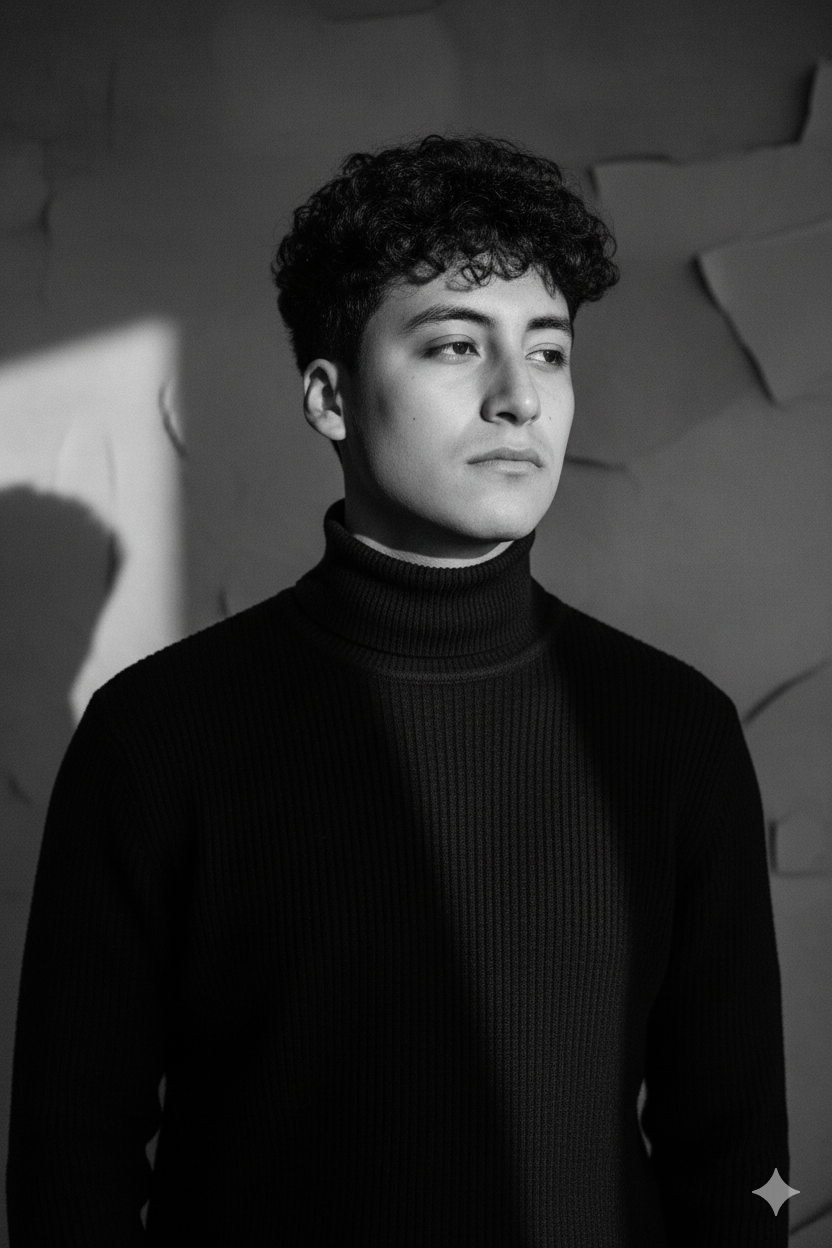
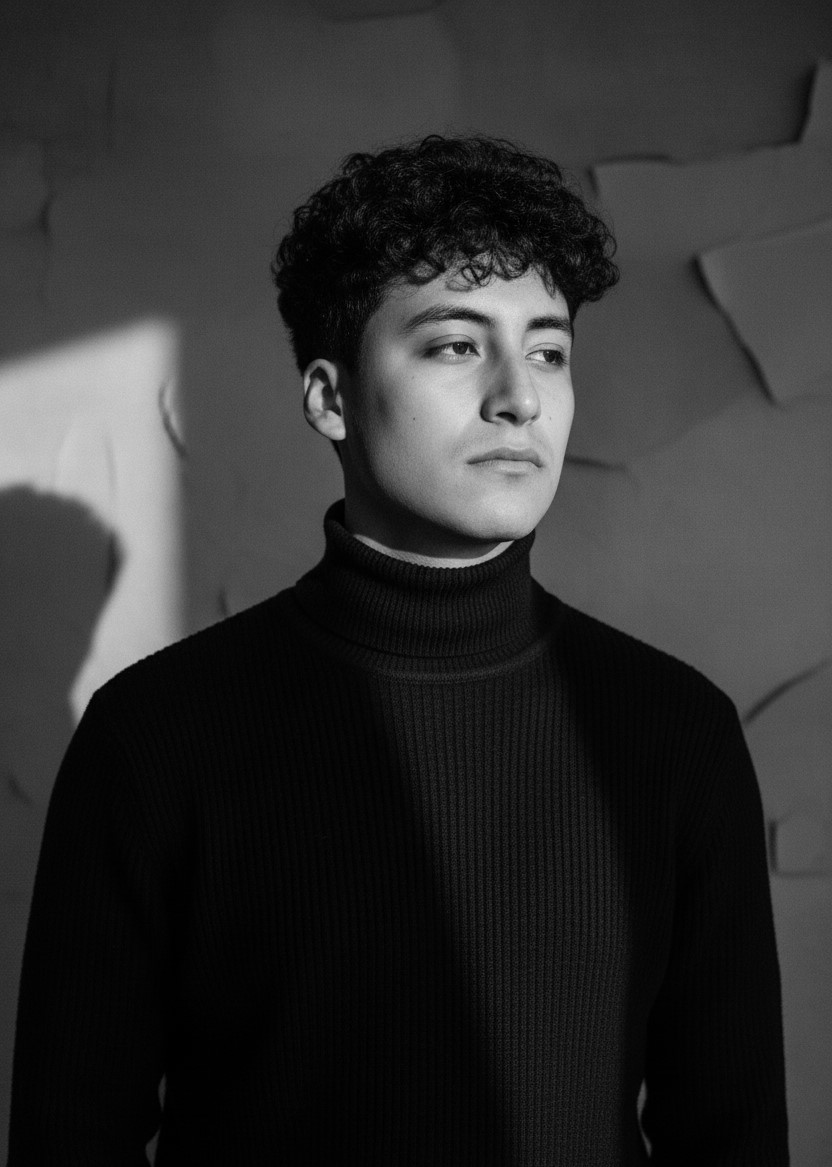
Cambios en diseño y mejoras

diff --git a/src/components/Habilities.jsx b/src/components/Habilities.jsx
@@ -1,9 +1,10 @@
 import React, { useEffect, useState } from 'react'
 import SkillCard from './SkillCard'
-import { FaReact, FaNode, FaLaravel, FaJava, FaVuejs, FaGitlab, FaBootstrap,FaMicrosoft  } from "react-icons/fa";
+import { FaReact, FaNode, FaLaravel, FaJava, FaVuejs, FaGithub,FaGitlab, FaBootstrap,FaMicrosoft,FaAws,FaFigma,  } from "react-icons/fa";
 import { RiTailwindCssFill } from "react-icons/ri";
 import { PiMicrosoftTeamsLogoBold } from "react-icons/pi";
-import { SiMysql, SiPostgresql, SiMongodb, SiJavascript, SiGit, SiHtml5, SiCss3, SiPhp, SiPostman, SiRender, SiHostinger } from "react-icons/si";
+import { SiMysql, SiPostgresql, SiMongodb,SiSpringboot,
+    SiDbeaver, SiIntellijidea,SiJavascript, SiEclipseide,SiGit, SiHtml5, SiCss3, SiPhp, SiPostman, SiRender, SiHostinger,SiJira } from "react-icons/si";
 
 const Habilities = () => {
     const [Skills, setSkills] = useState([]);
@@ -36,7 +37,15 @@ const Habilities = () => {
                     FaBootstrap: FaBootstrap,
                     RiTailwindCssFill: RiTailwindCssFill,
                     FaMicrosoft: FaMicrosoft,
-                    PiMicrosoftTeamsLogoBold: PiMicrosoftTeamsLogoBold
+                    PiMicrosoftTeamsLogoBold: PiMicrosoftTeamsLogoBold,
+                    FaAws: FaAws,
+                    FaFigma: FaFigma,
+                    SiDbeaver: SiDbeaver,
+                    SiIntellijidea: SiIntellijidea,
+                    FaGithub: FaGithub,
+                    SiSpringboot: SiSpringboot,
+                    SiJira: SiJira,
+                    SiEclipseide: SiEclipseide,
                 }
 
                 const skillsWithIcons = data.map(skill => ({

diff --git a/src/components/ProjectCard.jsx b/src/components/ProjectCard.jsx
@@ -21,12 +21,17 @@ const ProjectCard = ({ project }) => {
             
            
             <div className="relative h-80 overflow-hidden bg-black cursor-zoom-in" onClick={() => setIsOpen(true)}>
-                <img
-                    src={getImgUrl(imagenes[currentIdx])}
-                    alt={project.alt || project.nombre}
-                    className="w-full h-full object-cover transition-transform duration-700 group-hover:scale-110"
-                    loading="lazy"
-                />
+                {imagenes.length > 0 ? (
+                    <img
+                        src={getImgUrl(imagenes[currentIdx])}
+                        alt={project.nombre}
+                        className="w-full h-full object-cover transition-transform duration-300 group-hover:scale-105"
+                    />
+                ) : (
+                    <div className="w-full h-full bg-gradient-to-br from-zinc-800 to-zinc-700 grid place-items-center">
+                        <span className="text-gray-500 text-sm">No hay imagen disponible</span>
+                    </div>
+                )}
 
                 
                 <div className="absolute inset-0 bg-black/40 flex items-center justify-center opacity-0 group-hover:opacity-100 transition-opacity z-10">

diff --git a/src/components/Home.jsx b/src/components/Home.jsx
@@ -1,7 +1,7 @@
 import React from "react";
 import { FaReact, FaNode, FaLaravel } from "react-icons/fa";
 import { SiMysql } from "react-icons/si";
-import Jair from "../assets/images/jaircampos.jpg";
+import Jair from "../assets/images/yo.jpg";
 import SkillCard from "./SkillCard";
 const Home = () => {
     const skills = [
@@ -43,8 +43,8 @@ const Home = () => {
                             Desarrollador Web Full Stack JR
                         </p>
                         <p className="text-slate-800 font-medium max-w-2xl leading-relaxed">
-                            ✌¡Hola! Soy Jair Josue Heras Campos un joven desarrollador egresado
-                            cuento con una trayectoria de 1 año 5 meses en el desarrollo web.
+                            ✌¡Hola! Soy Jair Josue Heras Campos un joven desarrollador
+                            cuento con una trayectoria de 2 años de experiencia en el desarrollo web.
                             Mi especialidad es crear aplicaciones web que cumplan con los
                             estandares modernos asi como con la experiencia del usuario. Me
                             encanta el desarrollo Full Stack y siempre estoy buscando aprender

diff --git a/src/components/Proyectos.jsx b/src/components/Proyectos.jsx
@@ -61,6 +61,10 @@ const Proyectos = () => {
                         className={`px-8 py-2.5 rounded-full text-sm font-bold transition-all duration-300 ${selectedCategory === "escolar" ? "bg-yellow-500 text-black shadow-[0_0_20px_rgba(234,179,8,0.3)]" : "bg-zinc-900 text-zinc-400 border border-zinc-800 hover:border-yellow-500/50"}`}>
                         Escolar
                     </button>
+                    <button onClick={() => filterProjects("mcllent")}
+                        className={`px-8 py-2.5 rounded-full text-sm font-bold transition-all duration-300 ${selectedCategory === "mcllent" ? "bg-yellow-500 text-black shadow-[0_0_20px_rgba(234,179,8,0.3)]" : "bg-zinc-900 text-zinc-400 border border-zinc-800 hover:border-yellow-500/50"}`}>
+                        MCLLENT
+                    </button>
                 </div>
 
 
